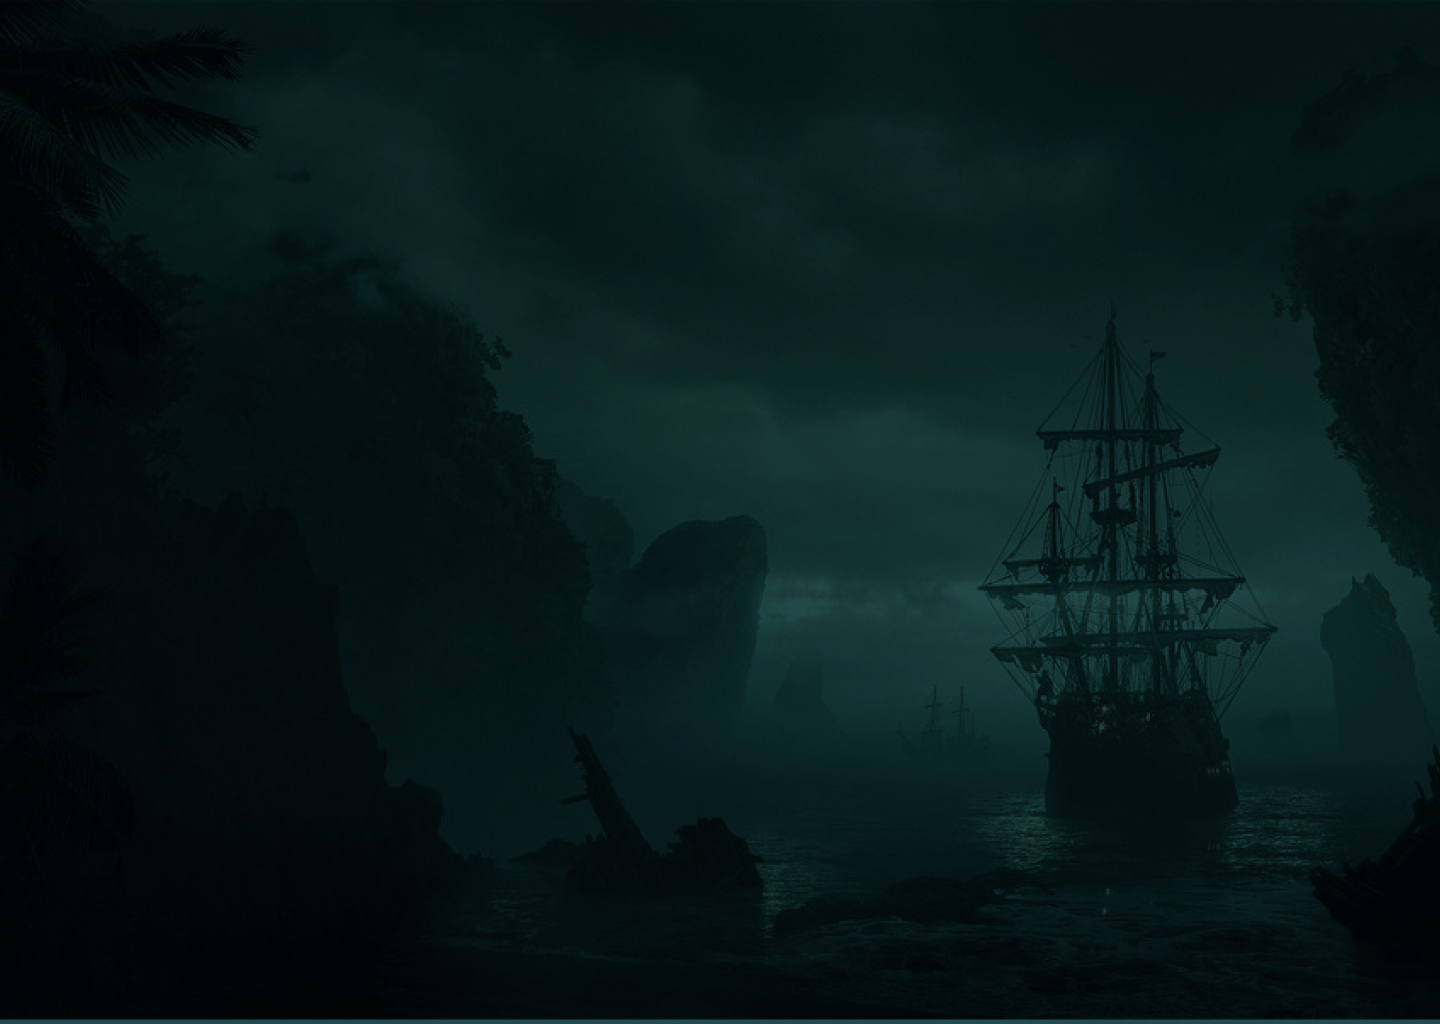
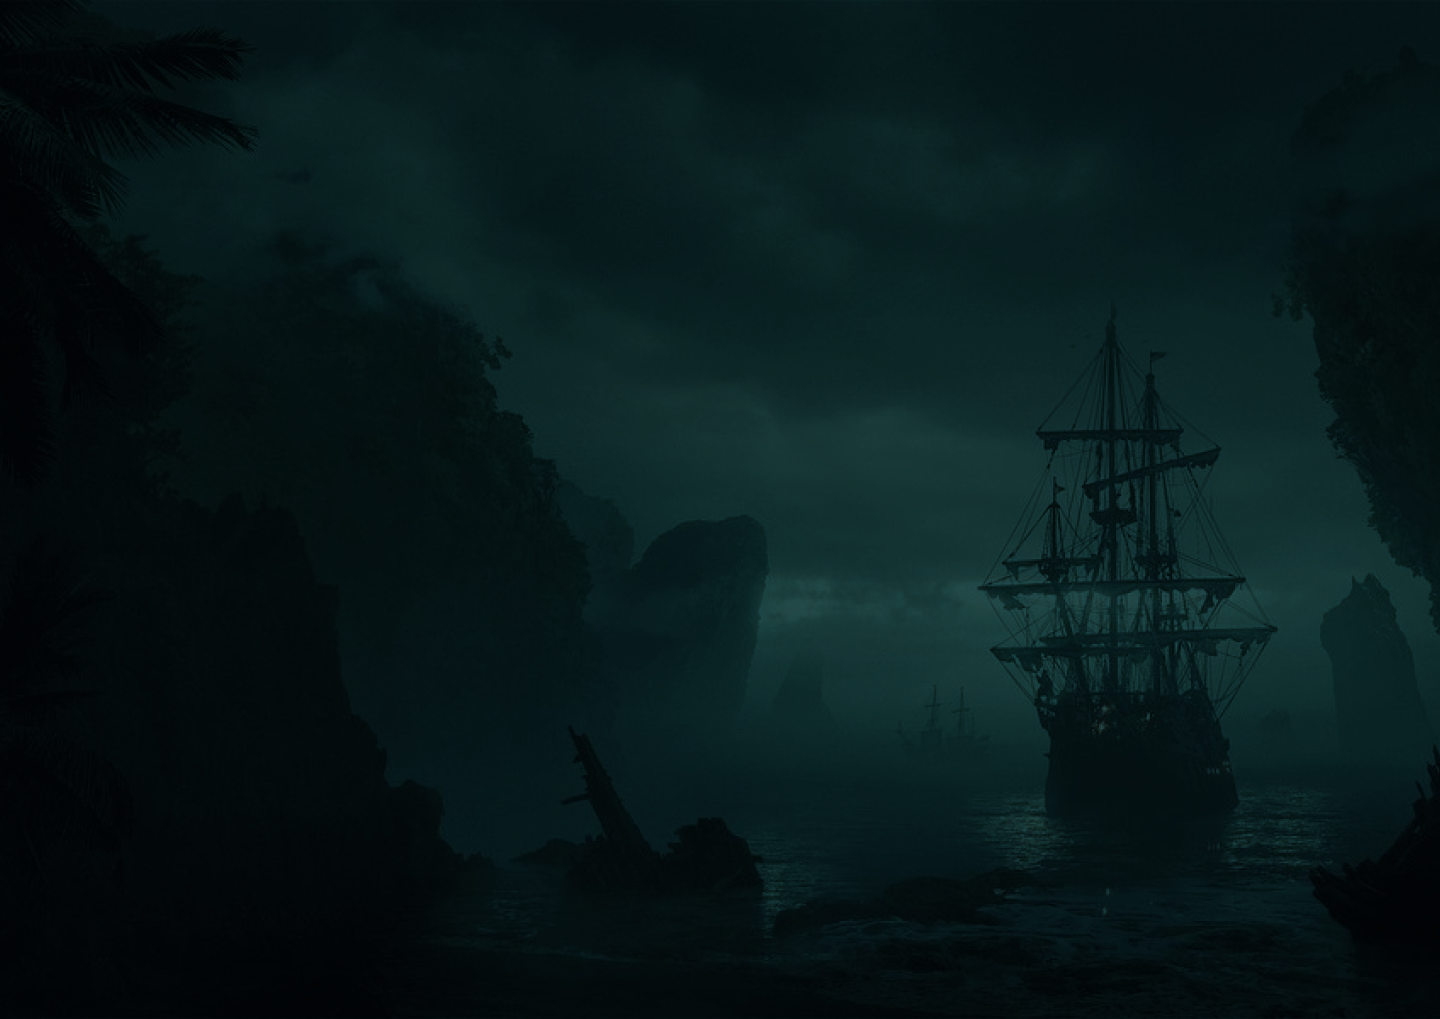
hero bg line fixed, r fonts fixed, sponsi dummy data changed, sponsi section polished

Changed region(s): [[0.0, 0.9735, 1.0, 1.0], [0.6875, 0.5476, 0.7188, 0.578]]

diff --git a/src/components/sponsorSection/sponsorSection.tsx b/src/components/sponsorSection/sponsorSection.tsx
@@ -1,7 +1,8 @@
 import React from 'react'
 import { SponsorData, sponsorsData} from '../../data/sponsorData/homeSponsorsData'
 import Image from 'next/image'
-
+import styles from '@/components/sponsorSection/sponsorSection.module.css'
+import { motion } from 'motion/react';
 function sponorCard(sponsorData:SponsorData,index:number,priority:number){
     return(
     <div className={` ${
@@ -9,7 +10,7 @@ function sponorCard(sponsorData:SponsorData,index:number,priority:number){
         priority==2? 'my-4 w-[26vw]':
         priority==3? 'my-3 w-[20vw]':'my-3 w-[15vw]'
     }`} key={index}>
-        <div className={`bg-cyan-900/30 pb-2 transiton drop-shadow-[0_0_15px_rgba(34,211,238,0.5)] hover:drop-shadow-[0_0_15px_rgba(34,211,238,0.9)] duration-400 flex flex-col h-full relative justify-between ${
+        <div className={`bg-cyan-900/30 pb-2 transiton drop-shadow-[0_0_15px_rgba(34,211,238,0.5)] hover:drop-shadow-[0_0_15px_rgba(34,211,238,1)] duration-300 flex flex-col h-full relative justify-between ${
             priority==1?'w-[30vw] md:w-[25vw] lg:w-[25vw] ':
             priority==2?'w-[23vw] md:w-[20vw] lg:w-[20vw]':
             priority==3?'min-w-[15vw] md:min-w-[15vw] lg:min-w-[15vw] px-3 pb-3 pt-5':'min-w-[80%] max-w-[90%] md:px-2 lg:px-3 pb-3 pt-5'} overflow-hidden  mx-auto rounded-3xl border-cyan-700 border-3 items-center`}>    
@@ -22,12 +23,11 @@ function sponorCard(sponsorData:SponsorData,index:number,priority:number){
                 quality={100}
             />
             
-            { priority<3 && <div className={`text-sm
-              drop-shadow-[0_0_12px_rgba(34,211,238,0.3)] whitespace-normal font-bold  md:text-xl lg:text-xl 
+            { priority<3 && <div className={`text-sm ${styles['pirata-one-regular']}
+              drop-shadow-[0_0_12px_rgba(34,211,238,0.3)] whitespace-normal  tracking-wide font-light md:text-2xl lg:text-2xl 
               z-10 w-full lg:w-fit text-center mb-3 px-1 md:px-4 lg:px-4 py-1 border-b-3 border-cyan-700
-               md:border-3 md:border-t-0 lg:border-3 lg:border-t-0 bg-[rgba(16,66,82,0.7)]
-] ${'md:rounded-b-xl'} lg:rounded-b-xl`}>{sponsorData.title||"Title Sponsor"}</div>}
-            <Image  className='sponser z-10 w-full  md:w-[70%] h-auto lg:w-[50%] drop-shadow-[0_0_10px_rgba(0,0,0,0.8)]' src={sponsorData.image} alt={sponsorData.name||""} quality={100} width={800} height={800}/>
+               md:border-3 md:border-t-0 lg:border-3 lg:border-t-0 bg-[rgba(23,75,90,0.7)] ${'md:rounded-b-xl'} lg:rounded-b-xl`}>{sponsorData.title||"Title Sponsor"}</div>}
+            <Image  className='sponser z-10 w-full mx-auto  md:w-[70%] h-auto lg:w-[50%] drop-shadow-[0_0_10px_rgba(0,0,0,0.8)]' src={sponsorData.image} alt={sponsorData.name||""} quality={100} width={800} height={800}/>
             {/*<div className='w-[90%] my-1 text-center name px-1 z-10 '>{sponsorData.name}</div>*/}
         </div>
     </div>)
@@ -36,32 +36,54 @@ function sponorCard(sponsorData:SponsorData,index:number,priority:number){
 function SponsorSection() {
   
     return (
-        <div className={`h-fit w-full pt-50 bg-repeat-y lg:bg-[length:100%_auto] bg-[url(/homeSponsiBcg.png)]`}>
-            <Image
-                        className="block relative mx-auto mb-4 w-[70%] max-w-[700] h-auto drop-shadow-[0_0_10px_rgba(0,0,0,0.8)]"
-                        src="/sponsi-title.png"
-                        alt="pspss"
-                        width={300}
-                        height={61}
-                        priority
-                        
-                    />
+        <div className={`h-fit w-full pb-15 pt-50 bg-repeat-y lg:bg-[length:100%_auto] bg-[url(/homeSponsiBcg.png)]`}>
+           <motion.div
+            initial={{ opacity: 0, y: 50 }}
+            whileInView={{ opacity: 1, y: 0 }}
+            transition={{ duration: 2 }}
+            viewport={{ once: true }}>
+             <div className={` text-[60px] md:text-[120px] transiton duration-300 hover:drop-shadow-[0_0_20px_rgba(34,211,238,0.5)] text-[#36B9C5] mb-2 md:mb-4 text-center ${styles['pirata-one-regular']}`}>
+                OBLIVION'25 SPONSORS
+            </div>
+            </motion.div>
+            <motion.div
+            initial={{ opacity: 0, y: 50 }}
+            whileInView={{ opacity: 1, y: 0 }}
+            transition={{ duration: 2 }}
+            viewport={{ once: true }}>
             <div className='flex py-10 flex-wrap-reverse px-5  items-stretch  justify-center content-around'>
                 {sponsorsData.top.map((sponsorData,index)=>sponorCard(sponsorData,index,1))}
             </div>
-
-            <div className='flex py-10 flex-wrap-reverse px-7   items-stretch  justify-center content-around'>
+            </motion.div>
+            <motion.div
+            initial={{ opacity: 0, y: 50 }}
+            whileInView={{ opacity: 1, y: 0 }}
+            transition={{ duration: 2 }}
+            viewport={{ once: true }}>
+            <div className='flex py-5 flex-wrap-reverse px-7   items-stretch  justify-center content-around'>
                 {sponsorsData.second.map((sponsorData,index)=>sponorCard(sponsorData,index,2))}
             </div>
-
+            </motion.div>
+             <motion.div
+            initial={{ opacity: 0, y: 50 }}
+            whileInView={{ opacity: 1, y: 0 }}
+            transition={{ duration: 2 }}
+            viewport={{ once: true }}>
             <div className='flex py-5 flex-wrap-reverse  gap-5 lg:gap-5 items-stretch  justify-center content-around'>
                 {sponsorsData.third.map((sponsorData,index)=>sponorCard(sponsorData,index,3))}
             </div>
-
-            <div className='flex py-5 items-stretch flex-wrap-reverse  lg:gap-5  justify-center content-around'>
+            </motion.div>
+            <motion.div
+            initial={{ opacity: 0, y: 50 }}
+            whileInView={{ opacity: 1, y: 0 }}
+            transition={{ duration: 2 }}
+            viewport={{ once: true }}>
+            <div className='flex items-stretch flex-wrap-reverse  lg:gap-5  justify-center content-around'>
                 {sponsorsData.last.map((sponsorData,index)=>sponorCard(sponsorData,index,4))}
             </div>
+            </motion.div>
         </div>
+        
     )
 }
 

diff --git a/src/data/sponsorData/homeSponsorsData.tsx b/src/data/sponsorData/homeSponsorsData.tsx
@@ -27,13 +27,6 @@ export const sponsorsData = {
       link: "https://microsoft.com",
       custom: "",
     },
-    {
-      title: "Diamond",
-      name: "Google",
-      image: "/oblivion.png",
-      link: "https://google.com",
-      custom: "",
-    },
   ],
 
   second: [
@@ -58,92 +51,14 @@ export const sponsorsData = {
       link: "https://notion.so",
       custom: "",
     },
-    {
-      title: "Innovation Sponsor",
-      name: "Stripe Payments",
-      image: "/oblivion.png",
-      link: "https://stripe.com",
-      custom: "",
-    },
-    {
-      title: "Media Partner",
-      name: "Hashnode",
-      image: "/oblivion.png",
-      link: "https://hashnode.com",
-      custom: "",
-    },
+    
   ],
 
   third: [
-    {
-      name: "Tailwind Labs",
-      image: "/oblivion.png",
-      link: "https://tailwindcss.com",
-      custom: "",
-    },
-    {
-      name: "Render",
-      image: "/oblivion.png",
-      link: "https://render.com",
-      custom: "",
-    },
-    {
-      name: "Clerk Auth",
-      image: "/oblivion.png",
-      link: "https://clerk.dev",
-      custom: "",
-    },
-    {
-      name: "Auth0",
-      image: "/oblivion.png",
-      link: "https://auth0.com",
-      custom: "",
-    },
-    {
-      name: "DigitalOcean",
-      image: "/oblivion.png",
-      link: "https://digitalocean.com",
-      custom: "",
-    },
-    {
-      name: "Linear",
-      image: "/oblivion.png",
-      link: "https://linear.app",
-      custom: "",
-    },
-    {
-      name: "Sentry",
-      image: "/oblivion.png",
-      link: "https://sentry.io",
-      custom: "",
-    },
+    
   ],
 
   last: [
-    {
-      name: "Figma",
-      image: "/oblivion.png",
-      link: "https://figma.com",
-      custom: "",
-    },
-    {
-      name: "Cloudflare",
-      image: "/oblivion.png",
-      link: "https://cloudflare.com",
-      custom: "",
-    },
-    {
-      name: "Postman",
-      image: "/oblivion.png",
-      link: "https://postman.com",
-      custom: "",
-    },
-    {
-      name: "Canva",
-      image: "/oblivion.png",
-      link: "https://canva.com",
-      custom: "",
-    },
     {
       name: "Github",
       image: "/oblivion.png",

diff --git a/src/components/about/about.tsx b/src/components/about/about.tsx
@@ -27,10 +27,10 @@ function About() {
             priority
         />
         <Image
-        className= {`absolute -top-5 lg:-top-40 left-10vw ${styles.smoothFade} ${hovered?styles.flickerFreq:styles.flicker} opacity-70`}
+        className= {`absolute top-2 lg:-top-40 left-10vw ${styles.smoothFade} ${hovered?styles.flickerFreq:styles.flicker} opacity-70`}
             src="/lightning.png"
             alt="pspss"
-            width={1000}
+            width={1500}
             height={0}
             priority
         />
@@ -43,7 +43,7 @@ function About() {
             viewport={{ once: true }}
         >
         <Image
-            className="block relative mx-auto mb-10 mt-10 w-[60%] max-w-[400] hover:drop-shadow-[0_0_12px_rgba(34,211,238,0.3)] drop-shadow-[0_0_15px_rgba(0,0,0,0.8) h-auto"
+            className="block relative mx-auto mb-10 mt-10 w-[60%] max-w-[550] transiton duration-300 hover:drop-shadow-[0_0_20px_rgba(34,211,238,0.5)] drop-shadow-[0_0_15px_rgba(0,0,0,0.8) h-auto"
             src="/group-23.svg"
             alt="pspss"
             width={300}
@@ -52,7 +52,7 @@ function About() {
             onMouseEnter={() => setHovered(true)}
             onMouseLeave={() => setHovered(false)}
         />
-        <div className='mx-auto mt-20   border-cyan-400 border-2 rounded-2xl backdrop-blur-md bg-white/3 
+        <div className='mx-auto lg:mt-20   border-cyan-400 border-2 rounded-2xl backdrop-blur-md bg-white/3 
         text-center 
         text-l sm:text-l md:text-xl lg:text-3xl 
         tracking-widest  

diff --git a/src/components/about/about.module.css b/src/components/about/about.module.css
@@ -42,7 +42,7 @@
 }
 .smoothFade {
   opacity: 0;
-  transition: opacity 1s ease-in-out;
+  transition: opacity 1.5s ease-in-out;
 }
 
 .aboutSection {

diff --git a/src/components/sponsorSection/sponsorSection.module.css b/src/components/sponsorSection/sponsorSection.module.css
@@ -1,0 +1,5 @@
+.pirata-one-regular {
+  font-family: "Pirata One", system-ui;
+  font-weight: 400;
+  font-style: normal;
+}
